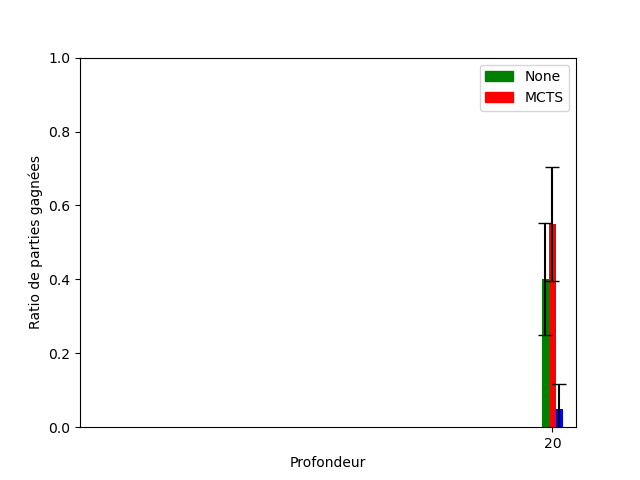
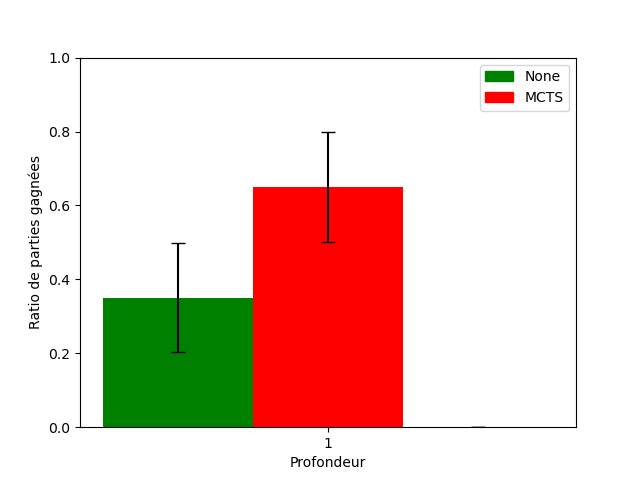
divers

diff --git a/MCTS.py b/MCTS.py
@@ -34,19 +34,19 @@ MCTS retournera son successeur qui présente le meilleur w/n
 # programmation objet des noeuds 
 
 class noeud:
-    def __init__(self, othellier, case, n, w, parent):
+    def __init__(self, othellier, case, n, parent):
         self.othellier = othellier 
         self.n = n 
-        self.w = w 
+        self.w = {1 : 0, 2 : 0, 0 : 0 } # 3 clés : 1, 2, ou 0 qui comptabilise ls parties gagnées par le jouer 1, ou 2 ou égalités
         self.parent = parent # un objet appartenant à la classe noeud 
         self.case = case # "case" permet de savoir quelle case jouer pour passer du noeud parent à ce noeud / le chemin à suivre dans l'arbre 
         self.successeurs = [] # la liste des sucesseurs n'est remplie que plus tard. 
                               # Une liste successeurs vide signifie que le noeud est un neoud feuille 
         # N = parent.n 
 
-    def UCB(self, C): #selection
+    def UCB(self, C, joueur): #selection
         try: 
-            return self.w/self.n + C * sqrt( log(self.parent.n) /self.n )
+            return self.w[joueur]/self.n + C * sqrt( log(self.parent.n) /self.n )
         except:
             # Si n = 0, UCB vaut + l'infini 
             return + 10000 
@@ -76,25 +76,25 @@ class noeud:
             oth_fils.mise_a_jour(case, self.othellier.a_des_binomes(case)[2])
             oth_fils.joueur, oth_fils.adversaire = oth_fils.adversaire, oth_fils.joueur
             # on ajoute au noeud parent le successeur que l'on vient de créer 
-            self.successeurs.append(noeud(oth_fils, case, n=0, w=0, parent=self)) 
+            self.successeurs.append(noeud(oth_fils, case, n=0, parent=self)) 
 
 
     def genere_successeur(self, case):
         oth_fils = copy.deepcopy(self.othellier)
         oth_fils.mise_a_jour(case, self.othellier.a_des_binomes(case)[2])
         oth_fils.joueur, oth_fils.adversaire = oth_fils.adversaire, oth_fils.joueur
-        self.successeurs.append(noeud(oth_fils, case, n=0, w=0, parent=self))
+        self.successeurs.append(noeud(oth_fils, case, n=0, parent=self))
         self.case_a_jouer.remove(case)
         self.feuille = False
         
 
-def MCTS(othellier, nb_iter, C, nb_play_out = 3 ):
+def MCTS(othellier, nb_iter, C, nb_play_out):
     '''
     othellier = l'othellier pour lequel on veut faire l'évaluation
     '''
     # Initialisation de l'arbre  
     oth_racine = copy.deepcopy(othellier)
-    noeud_racine = noeud(oth_racine, None, n=0, w=0, parent=None)
+    noeud_racine = noeud(oth_racine, None, n=0, parent=None)
     noeud_racine.genere_successeurs()
     
     # On commence les iterations 
@@ -108,8 +108,8 @@ def MCTS(othellier, nb_iter, C, nb_play_out = 3 ):
         while len(noeud_courant.successeurs) > 0 :
             best_UCB = -100  # initialisation 
             for s in noeud_courant.successeurs:
-                if s.UCB(C) > best_UCB:
-                    best_UCB = s.UCB(C)
+                if s.UCB(C, noeud_racine.othellier.joueur[0]) > best_UCB:
+                    best_UCB = s.UCB(C,noeud_racine.othellier.joueur[0])
                     noeud_courant = s 
 
         # len(noeud_courant.successeurs) == 0 --> Le noeud est une feuille. 
@@ -117,7 +117,6 @@ def MCTS(othellier, nb_iter, C, nb_play_out = 3 ):
         # a - Il a été exploré une fois mais pas développé (noeud_courant.n == 1) 
         #     --> on le developpe et on réalisera un play_out sur un de ces successeurs 
         # b - il n'a jamais été exploré du tout (ie noeud_courant.n == 0) Dans ce cas on va réaliser un play out 
-        
     
         if noeud_courant.n != 0:
             noeud_courant.genere_successeurs() # on developpe le noeud = II - EXPANSION
@@ -130,86 +129,66 @@ def MCTS(othellier, nb_iter, C, nb_play_out = 3 ):
 
         # Etant donné que les étapes de propagation vont modifier le noeud courant, on le garde en mémoire grâce à noeud_elu 
         noeud_elu = noeud_courant
+        #print("noeud_elu 1 ", noeud_elu)
 
-        #print(noeud_elu.othellier.joueur[0])
+        # #print(noeud_elu.othellier.joueur[0])
         for npo in range(nb_play_out):
-            #print("play out")
             gagnant = noeud_elu.play_out()
-            #print(gagnant)
-            #print(noeud_racine.othellier.joueur[0])
-            # gagnant vaut 1, 2 ou 0.
-            # Or, on souhaite remonter 1 à la racine uniquement si le joueur du noeud racine a gagné. 
-            # On procède donc ainsi : 
-            if gagnant == noeud_racine.othellier.joueur[0]:
-                #print('gagnant == noeud_racine.othellier.joueur[0]')
-                result =  1
-                result_adversaire = 0
-            elif gagnant == 0: # cas d'égalité 
-                result = 0
-                result_adversaire = 0
-            else : 
-                #print('gagnant != noeud_racine.othellier.joueur[0]')
-                result = 0
-                result_adversaire = 1
+        #     #print(gagnant)
+        #     #print(noeud_racine.othellier.joueur[0])
+        #     # gagnant vaut 1, 2 ou 0.
+        #     # Or, on souhaite remonter +1 à la racine uniquement si le joueur du noeud racine a gagné. 
+        #     # On procède donc ainsi : 
+        #     if gagnant == noeud_racine.othellier.joueur[0]:
+        #         #print('gagnant == noeud_racine.othellier.joueur[0]')
+        #         result = 1
+        #     elif gagnant == 0: # cas d'égalité 
+        #         result = 0
+        #     else : 
+        #         #print('gagnant != noeud_racine.othellier.joueur[0]')
+        #         result = 1
+
             
             # III - rétropropagation 
-            # maintenant on retropropage le resultat 
-            noeud_courant = noeud_elu 
+            #print(" w avant backprop ", noeud_racine.w)
             while noeud_courant != None:
 
                 noeud_courant.n += 1 # quel que soit noeud_racine.othellier.joueur[0] on ajoute 1 car le noeud est visité 
                 # La  mise à jour de w est un peu plus compliquée : 
-                # "Si J1 a gagné, le w augmenten'a pas gagné son w n'augmente pas" 
-                # ON SE PLACE DU POINT DE VUE DE RACINE : SI JOUEUR 1 REMONTE UN GAGNANT DE 2 ET BIEN ÇA VAUT +1 QUAND MEME !! 
-                #if noeud_courant.othellier.joueur[0] == noeud_racine.othellier.joueur[0]:
-                noeud_courant.w += result
+                # Si le joueur 1 a gagné, on ajoute +1 dans w[1]. 0 l'inverse, si J2 a gagné, on ajoute +1 à w[2].
+                # En cas d'égalité, on ajoute +1 à w[0]
+                noeud_courant.w[gagnant] += 1
                 #else: # noeud_courant.othellier.joueur[0] != noeud_racine.othellier.joueur[0]: 
                     #noeud_courant.w += result_adversaire
                 noeud_courant = noeud_courant.parent 
-    
+            #print(" w après backprop ", noeud_racine.w)
+            # on replace le noeud courant à celui de départ pour que le play out se fasse sur le meme noeud 
+            noeud_courant = noeud_elu  
+            #print("noeud_elu 2 ", noeud_courant)
+            
     # maintenant que toutes les itérations ont été réalisées, on choisit quelle est la meilleure case à jouer 
     best_s = noeud_racine.successeurs[0] # initialisation 
-    best_score = best_s.w / best_s.n # initialisation 
+    # noeud_racine.othellier.joueur[0]  = on se place du point de vue du joeur qui utilise MCTS 
+    best_score = best_s.w[noeud_racine.othellier.joueur[0]] / best_s.n # initialisation 
     
     #rd.shuffle(noeud_racine.successeurs)
     best = {}
     for s in noeud_racine.successeurs: # on shuffle (?) --> de telle sorte qu'en cas d'égalité, ce ne soit pas toujours la même case qui soit explorée en premier
-        best[s.case] = (s.w,s.n)
+        best[s.case] = (s.w[noeud_racine.othellier.joueur[0]],s.n)
         try:
             
-            if (s.w/s.n) > best_score: # !!! si le nombre d'iterations est inferieure au nombre de successeurs, division par zero !!! 
+            if (s.w[noeud_racine.othellier.joueur[0]]/s.n) > best_score: # !!! si le nombre d'iterations est inferieure au nombre de successeurs, division par zero !!! 
                 best_s = s 
                 
         except ZeroDivisionError:
             pass # si s.n == 0 --> c'est que le successeur n'a pas été visité --> on ne le considère pas 
-    
+    # print('')
+    # print("MCTS est utilise par le joueur ", noeud_racine.othellier.joueur[0])
+    # print(" w fin iter", noeud_racine.w)
     # print(noeud_racine.othellier.cases)
-    # print([s.case for s in noeud_racine.successeurs])
+    # print("successeurs", [s.case for s in noeud_racine.successeurs])
     # print(best)
+    # print("MCTS a choisi la case ",best_s.case )
 
-    return s
+    return best_s
 
-def afficher_arbre_MCTS(noeud_racine, niveau = 0):
-    '''
-    Cette fonction prend en argument un objet appartenant à la classe noeud et affiche l'arbre représentatif de MCTS.
-    '''
-    
-    # On commence par afficher le noeud racine
-    print('Niveau :', niveau)
-    print('Noeud racine : ')
-    print('Nombre de fois visité : ', noeud_racine.n)
-    print('Nombre de victoires : ', noeud_racine.w)
-    print('Case associée : ', noeud_racine.case)
-    print('\n')
-
-    # On affiche ensuite les successeurs
-    if len(noeud_racine.successeurs) > 0:
-        print('Successeurs : ')
-        for successeur in noeud_racine.successeurs:
-            print('Niveau :', niveau + 1)
-            print('Case associée : ', successeur.case)
-            print('Nombre de fois visité : ', successeur.n)
-            print('Nombre de victoires : ', successeur.w)
-            print('\n')
-            # Appel récursif de la fonction aff
-            afficher_arbre_MCTS(successeur, niveau + 1)

diff --git a/partie.py b/partie.py
@@ -7,7 +7,7 @@ import random as rd
 from random import randint 
 
 
-def partie(joueur1 = True , algo_j1 = None, prof_algo_j1 = 3, joueur2 = False, algo_j2 = None, prof_algo_j2 = 3, valeur_c = 1.414, nb_play_out = 3 ):
+def partie(joueur1 = True , algo_j1 = None, prof_algo_j1 = 3, joueur2 = False, algo_j2 = None, prof_algo_j2 = 3, valeur_c = 0.5, nb_play_out = 3 ):
 
     # On crée un othellier :
     # en début de partie, l'othellier est tel que : 
